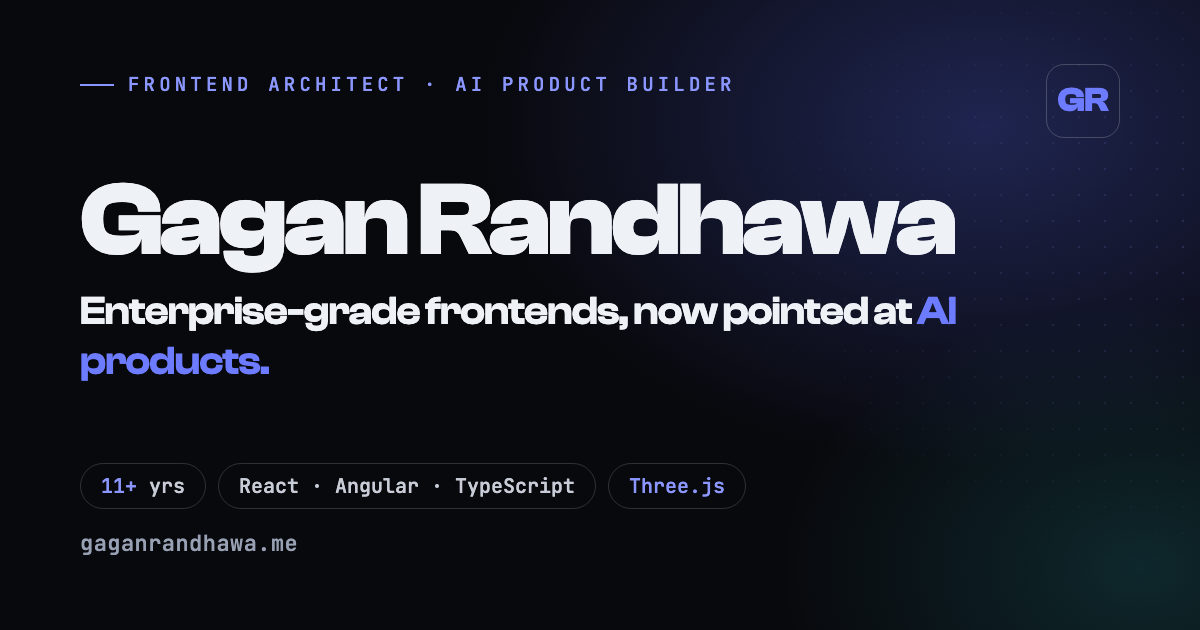
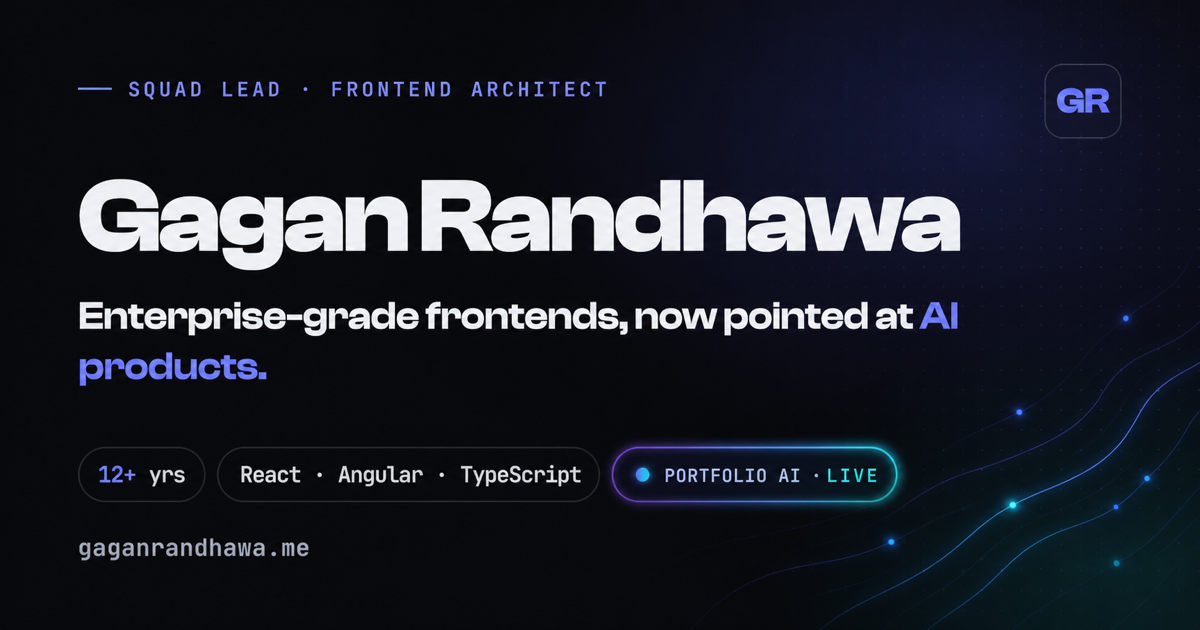
Refresh social thumbnail for latest portfolio

diff --git a/index.html b/index.html
@@ -20,7 +20,7 @@
   <meta property="og:description" content="12+ years building enterprise frontends at SAP and in aerospace. Leading Angular/React teams, obsessed with performance and design systems. Now building AI-powered products." />
   <meta property="og:type" content="website" />
   <meta property="og:url" content="https://gaganrandhawa.me/" />
-  <meta property="og:image" content="https://gaganrandhawa.me/og-cover.png" />
+  <meta property="og:image" content="https://gaganrandhawa.me/og-cover.png?v=2" />
   <meta property="og:image:width" content="1200" />
   <meta property="og:image:height" content="630" />
   <meta property="og:locale" content="en_CA" />
@@ -29,7 +29,7 @@
   <meta name="twitter:card" content="summary_large_image" />
   <meta name="twitter:title" content="Gagan Randhawa — Frontend Architect & AI Product Builder" />
   <meta name="twitter:description" content="12+ years building enterprise frontends. Now building AI-powered products, end-to-end." />
-  <meta name="twitter:image" content="https://gaganrandhawa.me/og-cover.png" />
+  <meta name="twitter:image" content="https://gaganrandhawa.me/og-cover.png?v=2" />
 
   <!-- Resolve the saved/system theme before CSS paints to prevent a flash. -->
   <script>
